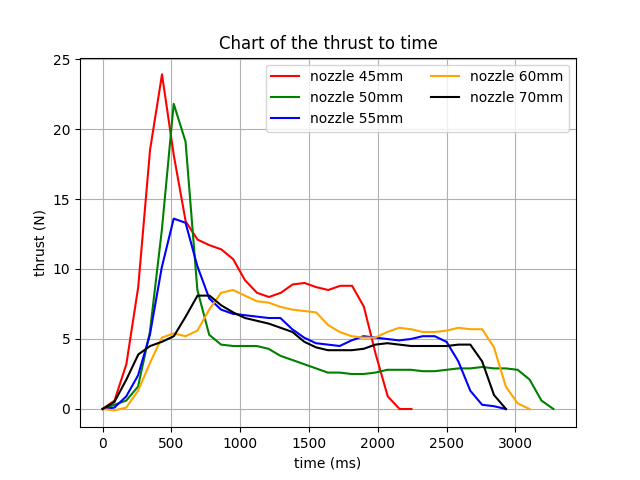
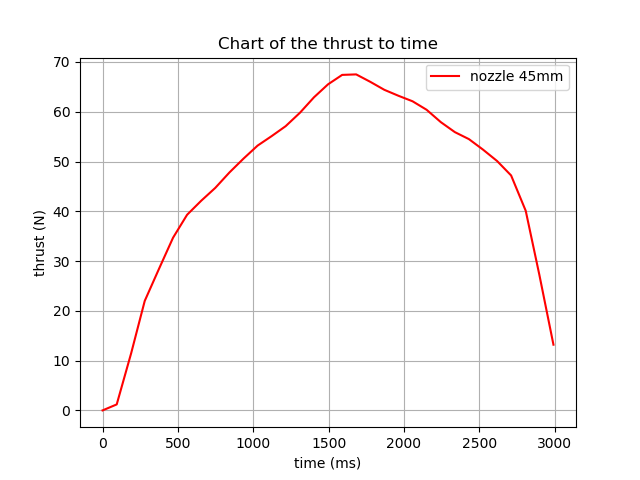
test

diff --git a/test_interpolate.py b/test_interpolate.py
@@ -70,17 +70,21 @@ def prepare_to_plot(data_path):
 # t = np.arange(0.0, 2.0, 0.01)
 # s = 1 + np.sin(2 * np.pi * t)
 
-time45, thrust45 = prepare_to_plot('pomiary/READOUTS_KAL_45.json')
-time50, thrust50 = prepare_to_plot('pomiary/READOUTS_KAL_50.json')
-time55, thrust55 = prepare_to_plot('pomiary/READOUTS_KAL_55.json')
-time60, thrust60 = prepare_to_plot('pomiary/READOUTS_KAL_60.json')
-time70, thrust70 = prepare_to_plot('pomiary/READOUTS_KAL_70.json')
+# time45, thrust45 = prepare_to_plot('pomiary/READOUTS_KAL_45.json')
+# time50, thrust50 = prepare_to_plot('pomiary/READOUTS_KAL_50.json')
+# time55, thrust55 = prepare_to_plot('pomiary/READOUTS_KAL_55.json')
+# time60, thrust60 = prepare_to_plot('pomiary/READOUTS_KAL_60.json')
+# time70, thrust70 = prepare_to_plot('pomiary/READOUTS_KAL_70.json')
+# fig, ax = plt.subplots()
+# ax.plot(time45, thrust45, label='nozzle 45mm', color='red')
+# ax.plot(time50, thrust50, color='green', label='nozzle 50mm')
+# ax.plot(time55, thrust55, color='blue', label='nozzle 55mm')
+# ax.plot(time60, thrust60, color='orange', label='nozzle 60mm')
+# ax.plot(time70, thrust70, color='black', label='nozzle 70mm')
+
+time, thrust = prepare_to_plot('pomiary/read.json')
 fig, ax = plt.subplots()
-ax.plot(time45, thrust45, label='nozzle 45mm', color='red')
-ax.plot(time50, thrust50, color='green', label='nozzle 50mm')
-ax.plot(time55, thrust55, color='blue', label='nozzle 55mm')
-ax.plot(time60, thrust60, color='orange', label='nozzle 60mm')
-ax.plot(time70, thrust70, color='black', label='nozzle 70mm')
+ax.plot(time, thrust, label='nozzle 45mm', color='red')
 
 ax.set(xlabel='time (ms)', ylabel='thrust (N)',
        title='Chart of the thrust to time')
